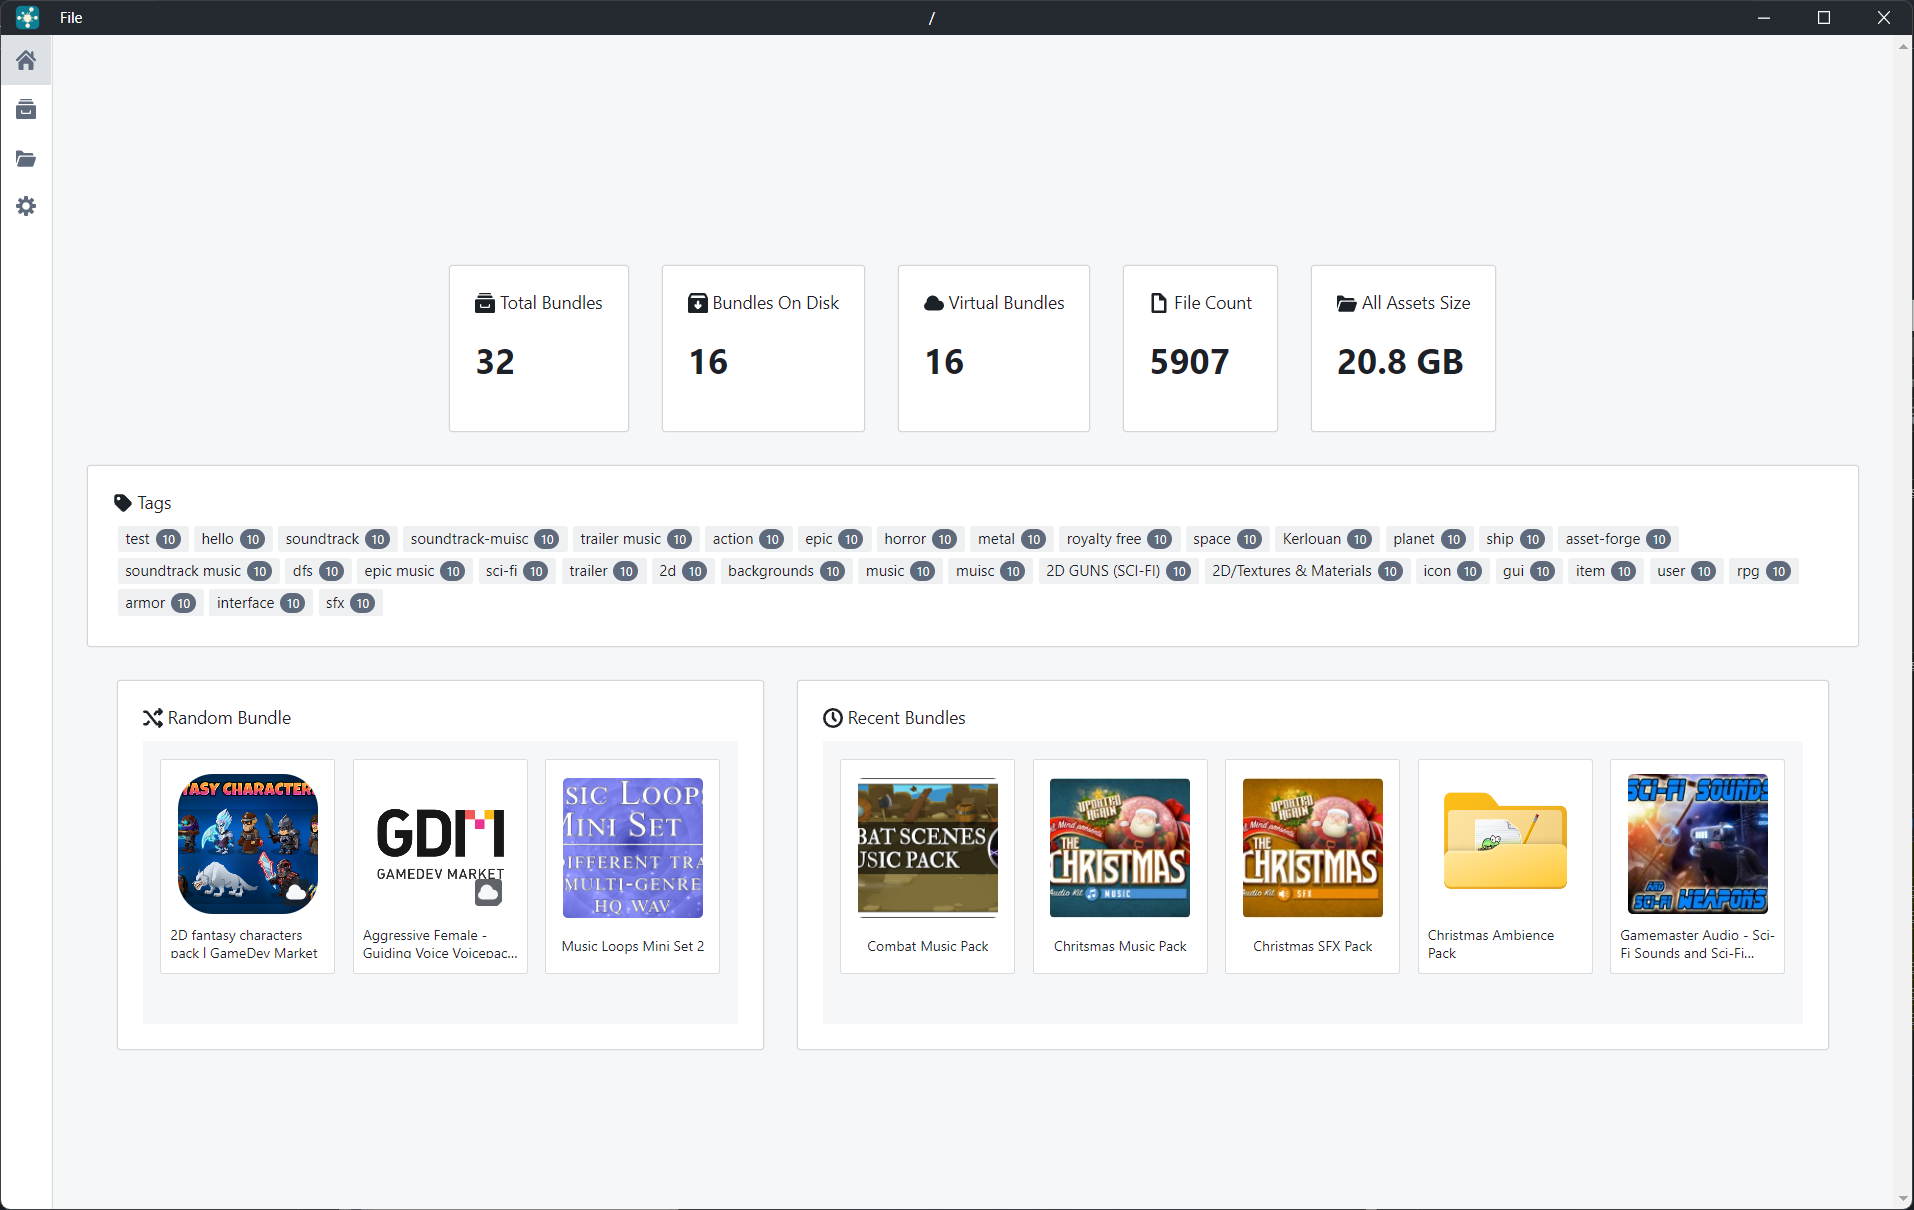
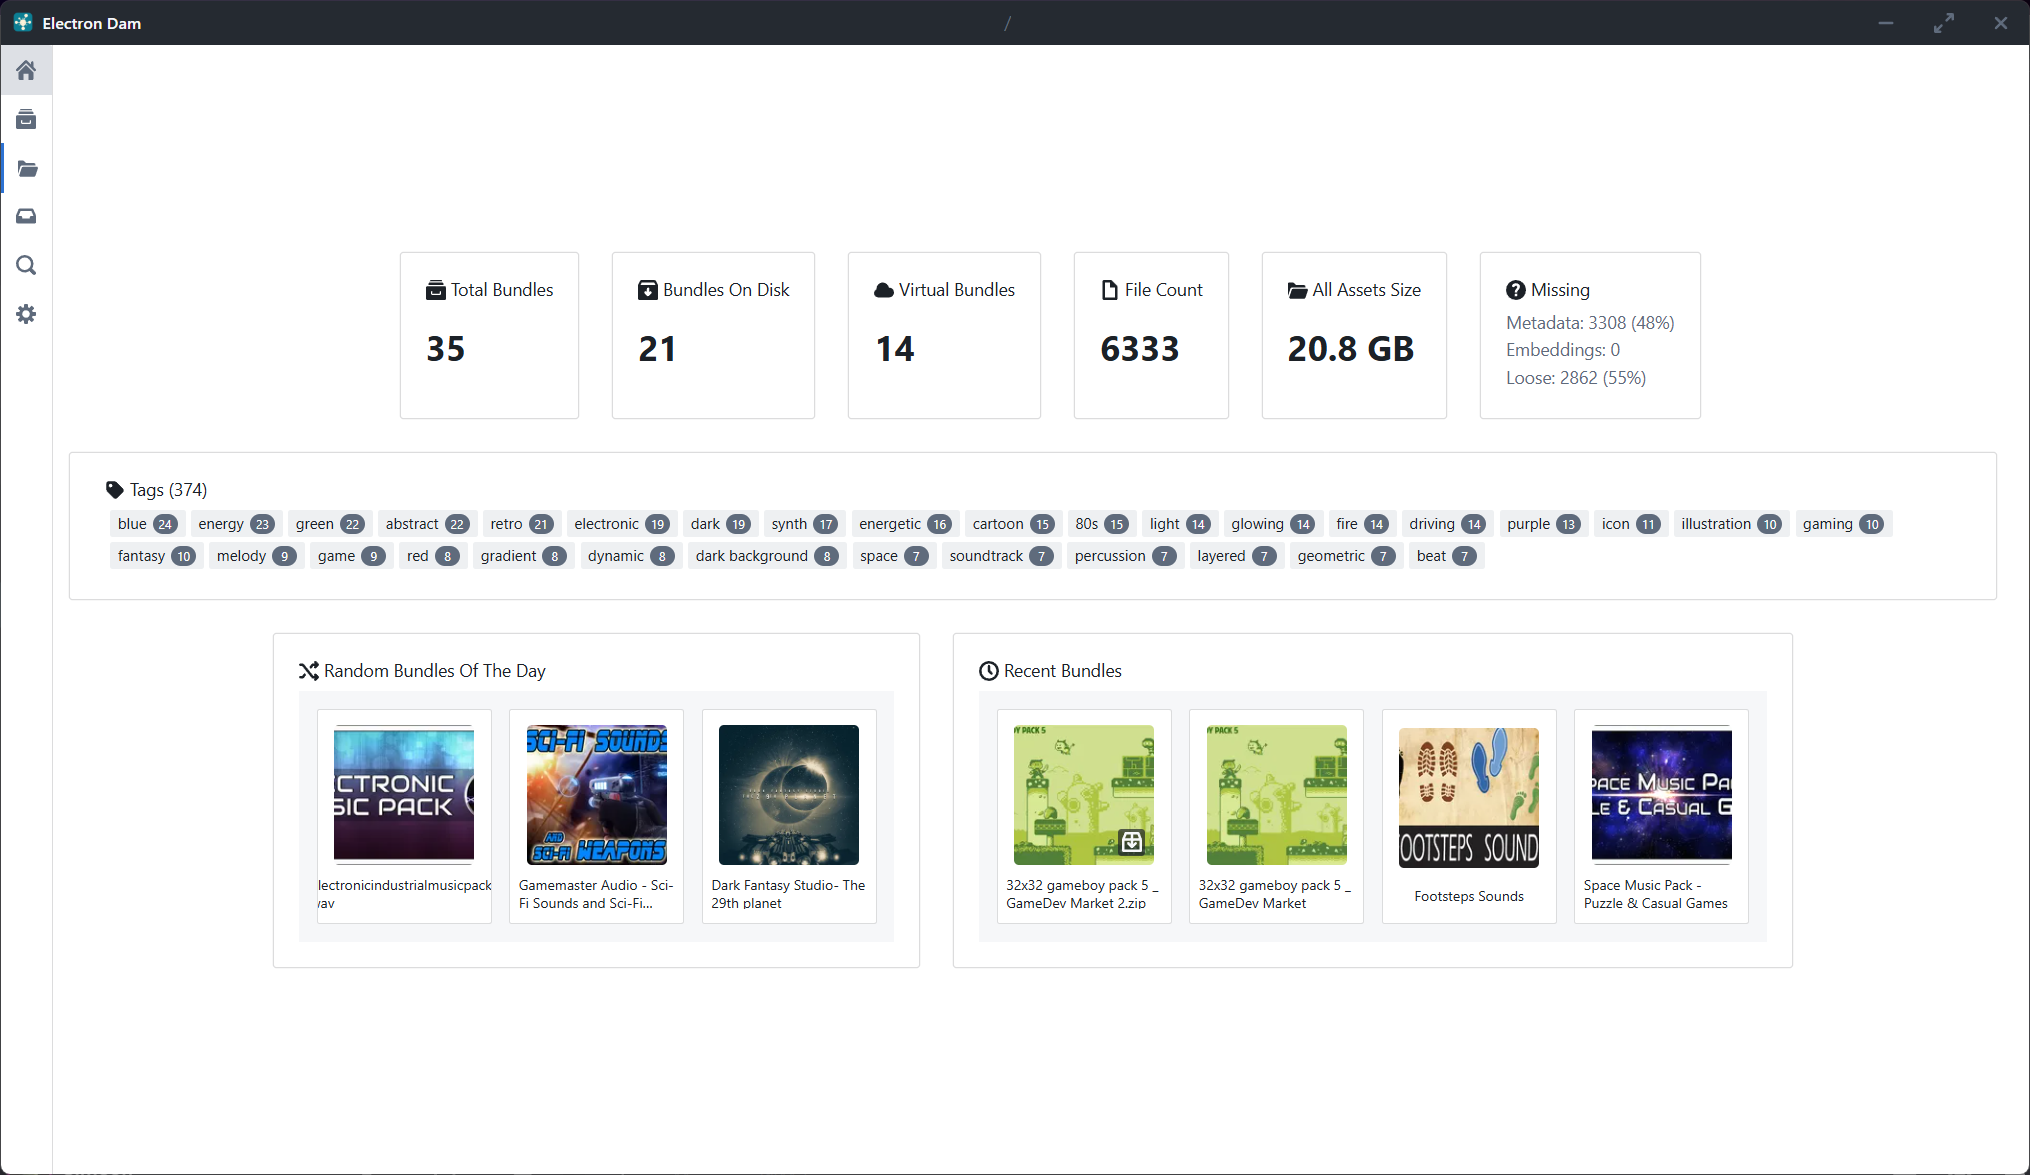
docs: Updated readme and screenshots

diff --git a/README.md b/README.md
@@ -4,31 +4,38 @@
 A bundle based digital asset manager built on top of electron using React and typescript.
 Based on the [Electron React Boilerplate](https://github.com/electron-react-boilerplate/electron-react-boilerplate)
 
-I created this app because I got to a point where I had a ton of assets accumulated from asset packs, and I wanted a way to quickly view and manage those assets without having to import them into a game engine or fiddle around with them in the windows explorer.
-
->⚠This is an early alpha version with bare bone features, there might be bugs and performance issues.
+I created this app because I got to a point where I had a ton of assets accumulated from asset packs, and I wanted a way to quickly view and manage those assets without having to import them into a game engine or fiddle around with them in the windows explorer. I also made it a lot easier to search for specific assets based on semantics so I can discover the right assets for my needs. Quick music preview as also a big thing, I wanted to quickly listen to lots of music similar to sites like [freesound.org](https://freesound.org/). Most features either depend on the file system and meta files, or human readable json databases so that tool change is low friction. This also hopefully avoids data loss and external or network storage can easily be utilized.
 
 ## Features
-* 3D Model Preview
-* Audio Preview
-* Easy Metadata Fetching
+* 3D Model Preview of multiple formats
+* Audio Preview with visualization
+* Easy Metadata Fetching with Ollama support
 * Light/Dark Mode using [Blueprint JS](https://blueprintjs.com/)
 * Tagging
-* Searching and Filtering
-* Homepage with stats
+* Metadata Generation/Extraction with Ollama support
+* Advanced searching and filtering including Semantic Search
+* Stats and sorting
 * Virtual Bundles
+* Compressed bundle Support
+* Asset exporting
 
 ## Supported formats
 * 3D Models: (obj, fbx, gltf, stl)
 * Audio: (mp3,flac,wav,ogg)
-* Images: (png,jpg,gif,svg,apng,ico)
-* Text: (txt,md)
+* Images: (png, jpg, gif, svg, apng,ico, bmp, webp)
+* Text: (txt, md)
+
+## How To Use
+I keep a minimal [wiki](https://github.com/simeonradivoev/electron-dam/wiki) as most features I've tried to make evident as much as I can in the UX or by adding tooltip all over the place.
+
+## Roadmap
+You can check the [Enchantments](https://github.com/simeonradivoev/electron-dam/issues?q=is%3Aissue%20state%3Aopen%20label%3Aenhancement) but mostly I add things I find useful or missing. I am more of a hands off person as I have lots of active projects, so I may not be consistent but I did try and make the asset management be file based avoiding losses on tool change. 
 
 ## Screenshots
 ![AudioPreview](.github/Screenshots/electron_mx0DTr60kQ.png)
 ![BundlesGrid](.github/Screenshots/electron_NxIUXz8iCN.png)
 ![HomeScreen](.github/Screenshots/electron_OCFSKhu24y.png)
-![ImagePreview](.github/Screenshots/electron_Q2yWv052BV.png)
+![Search](.github/Screenshots/electron_e3yhcIeTfX.png)
 ![BundlePreview](.github/Screenshots/electron_zLNclm1mOu.png)
 ![BundlePreview](.github/Screenshots/electron_MzX5N9h0ds.png)
 ![ModelPreview](.github/Screenshots/electron_UGd604YMdN.png)
@@ -42,3 +49,6 @@ I created this app because I got to a point where I had a ton of assets accumula
 * [React](https://github.com/facebook/react)
 * [Blueprint.js](https://github.com/palantir/blueprint)
 * [Wavesurfer.js](https://wavesurfer-js.org/)
+* [React Query](https://github.com/tanstack/query)
+* [React Virtual](https://github.com/tanstack/virtual)
+* [Headless Tree](https://github.com/lukasbach/headless-tree)
